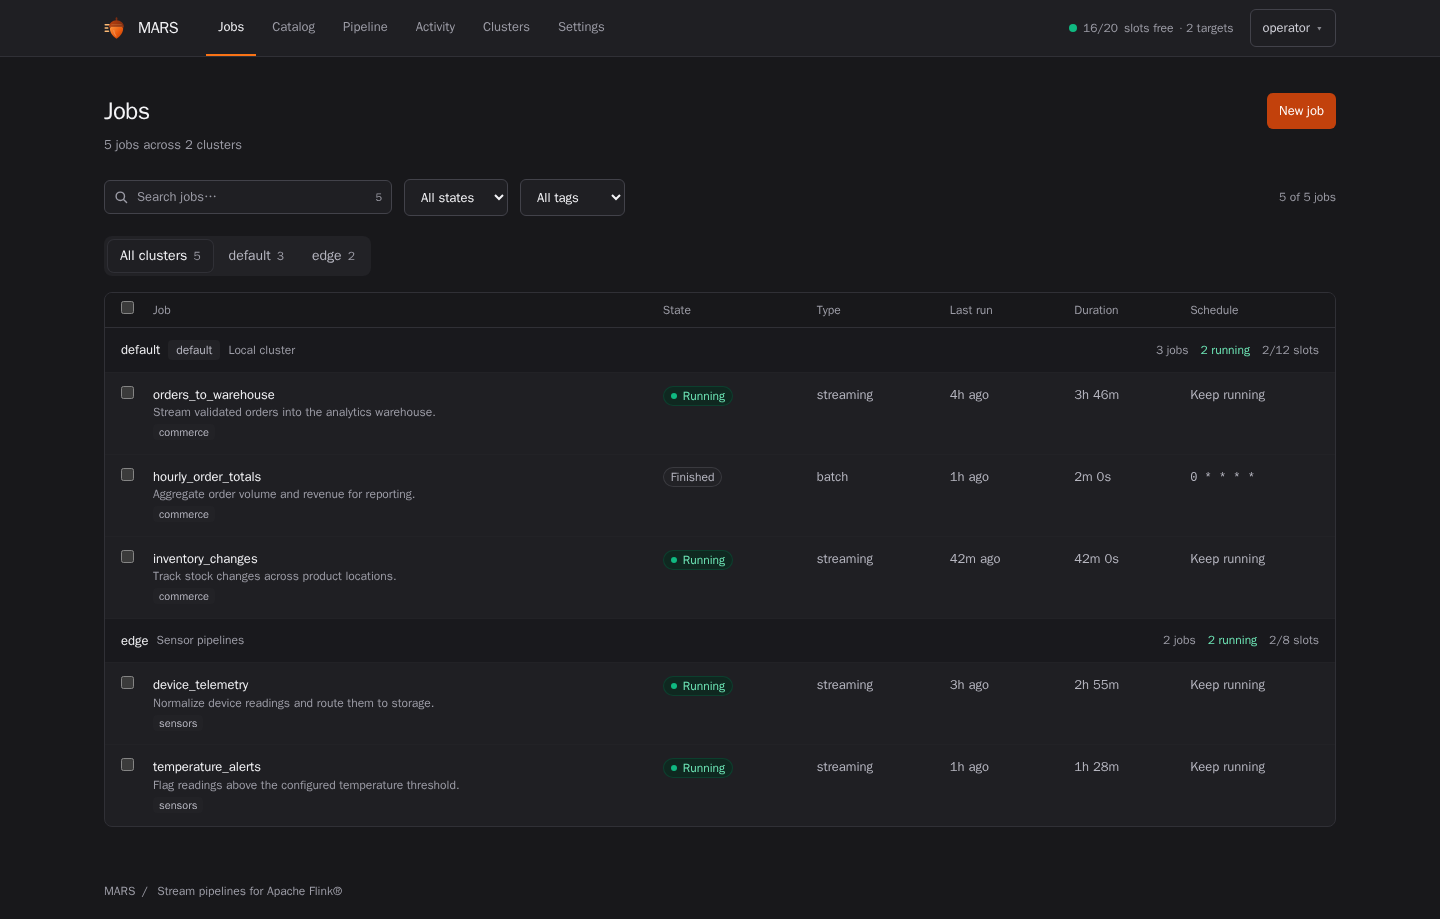
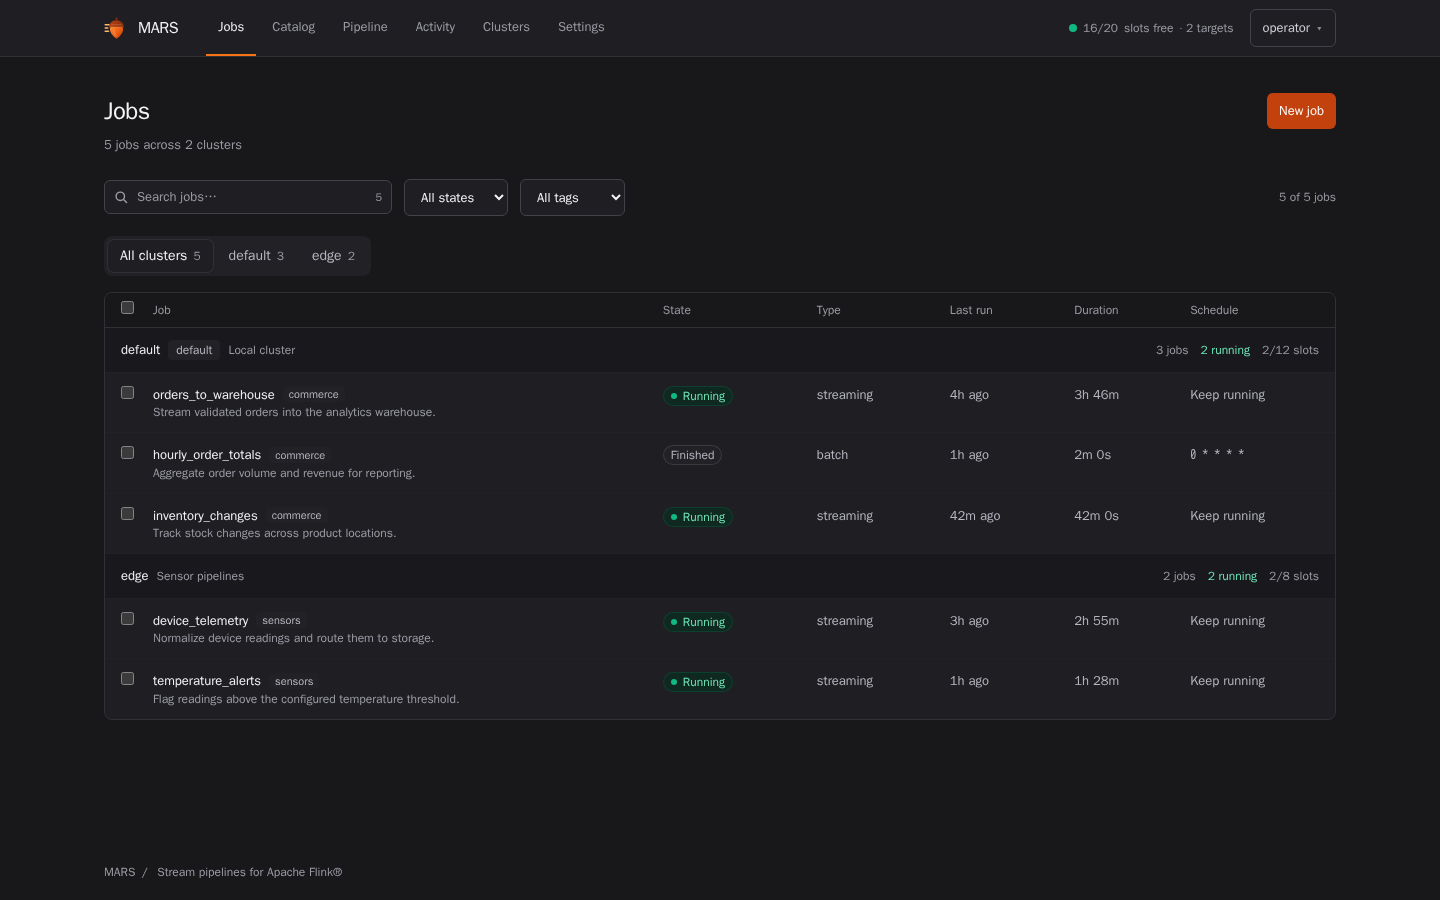
Place job tags beside job names (#53)
* Roadmap: announce published releases instead of main commits

* Place job tags beside the job name

diff --git a/frontend/src/pages/Jobs.jsx b/frontend/src/pages/Jobs.jsx
@@ -119,14 +119,16 @@ function JobRow({ job, showCluster, selectable, checked, onToggle, tag, onTag })
         </td>
       )}
       <td>
-        <Link to={`/jobs/${encodeURIComponent(job.name)}`}
-              className="block max-w-48 sm:max-w-md wrap-break-word font-medium text-slate-900 hover:text-brand-700">
-          {job.name}
-        </Link>
+        <div className="flex flex-wrap items-center gap-x-2 gap-y-1 max-w-48 sm:max-w-md">
+          <Link to={`/jobs/${encodeURIComponent(job.name)}`}
+                className="min-w-0 wrap-break-word font-medium text-slate-900 hover:text-brand-700">
+            {job.name}
+          </Link>
+          <TagChips tags={job.tags} active={tag} onPick={onTag} />
+        </div>
         {job.description && (
           <div className="text-xs text-slate-500 truncate max-w-48 sm:max-w-md">{job.description}</div>
         )}
-        <TagChips tags={job.tags} active={tag} onPick={onTag} className="mt-1" />
         {run?.state === 'restarting' && run.error_summary && (
           <div className="text-xs text-amber-700 truncate max-w-48 sm:max-w-md mt-0.5">
             {run.error_summary}

diff --git a/docs/roadmap-notes.md b/docs/roadmap-notes.md
@@ -8,6 +8,36 @@ The priority order was agreed on 2026-10-13; reviewed against the code on 2026-1
 
 ## Reliability and operations
 
+### Release-based update notifications (added 2026-10-14)
+
+The owner wants **Update available** to mean a new published, deployable release,
+not simply a change on the main branch. The current implementation supports both
+`main` and `releases` channels, but even the releases channel falls back to a raw
+Git tag when there is no published release. Availability is then calculated from
+the commits between the installed revision and the selected revision. The image
+workflow also builds and publishes commit-tagged images on every merge to `main`;
+those development builds should not automatically become release announcements.
+
+- Establish versioned releases with matching console/Flink image references and
+  immutable digests. Only announce an update once its relevant images are
+  published and available to deploy.
+- Compare the installed release with the latest eligible published release.
+  Additional commits on `main`, or a tag without a release, must not trigger the
+  standard update banner. Do not treat a different commit alone as a new version.
+- Exclude drafts and prereleases from the normal release channel. If development
+  tracking remains available, make it explicitly opt-in and label its notices as
+  development builds.
+- Show installed and available version names, publication date, release notes,
+  and deployment instructions for those exact artifacts. Apply this alongside
+  the planned per-cluster version reporting.
+- Handle no published releases, an unknown/local build, and a build ahead of the
+  latest release explicitly; do not silently fall back to tags or `main`, or offer
+  a downgrade as an update.
+- Verify that a main-branch merge alone causes no release notification, publishing
+  a newer eligible release does, and installing that release clears the notice.
+
+### Previously agreed priorities
+
 **Order agreed 2026-10-13:** the bugs that hurt a live move or upgrade come first, then World
 of Buoys phase 3 (pairwise correlation, which is outside MARS). In order: (1) a move that times
 out on its savepoint, (2) savepoints in progress visible, one at a time, (3) `deploy.sh`

diff --git a/ROADMAP.md b/ROADMAP.md
@@ -18,7 +18,8 @@ schedule. Last reviewed: **2026-10-14**.
 
 The October 2026 UI improvements also make hidden bulk selections visible and
 clearable, expose cluster capacity through **Resources & jobs**, and confirm
-external connection removal with **Remove from map**.
+external connection removal with **Remove from map**. Job tags sit beside the
+job name, with descriptions underneath and wrapping when space is limited.
 
 Stateful moves include pause estimates based on state size and measured savepoint
 speed, optional native savepoints, and recovery to the source if destination
@@ -62,6 +63,12 @@ Do not treat a timeout as confirmation that a job remained running.
 
 ## Following priorities
 
+- **Release-based update notifications:** make **Settings → Version & updates**
+  announce a newer published release with available deployment images, rather
+  than new commits on `main`. Show the installed and available release versions,
+  release notes, and matching image references. Ignore unpublished tags, drafts,
+  and prereleases by default; report when no release exists. Keep any opt-in
+  development-build tracking clearly separate from release notifications.
 - **Clearer operational status:** a Jobs attention filter, data freshness, unknown
   versus healthy states, and current state size with sorting and move estimates.
 - **More predictable maintenance:** stable upgrade plans with explicit operator
